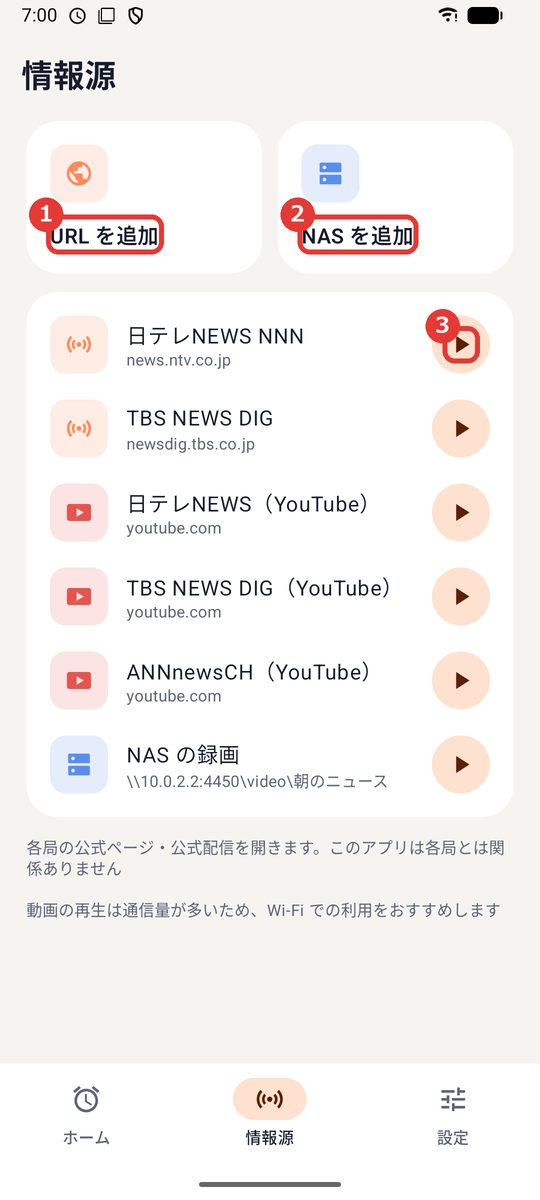
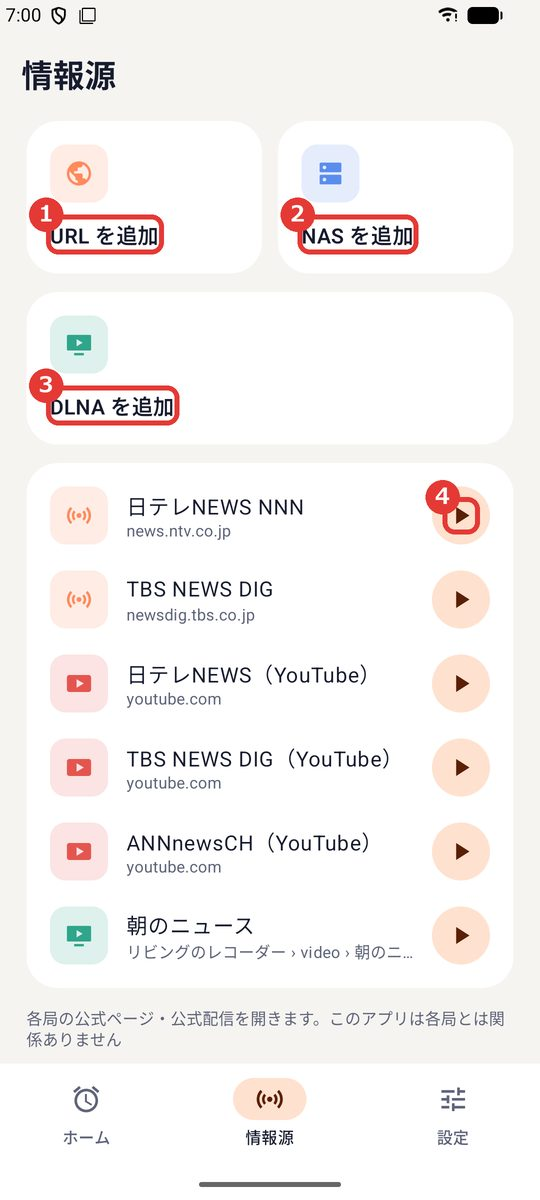
おはようニュースタイマー：DLNA の説明を足す
- 使い方のページに DLNA の手順と画像を追加
- 紹介ページとプライバシーポリシーに DLNA を追加

diff --git a/morning-news/privacy.html b/morning-news/privacy.html
@@ -9,7 +9,7 @@
 <body>
 <p><a href="./">おはようニュースタイマー</a></p>
 <h1>おはようニュースタイマー プライバシーポリシー</h1>
-<p>制定日：2026年11月25日<br>改定日：2026年11月25日（ネットワークの NAS を探す機能を追加）</p>
+<p>制定日：2026年11月25日<br>改定日：2026年11月26日（DLNA サーバーの再生を追加）</p>
 <p>DNGG-studio（以下「運営者」）は、Android アプリ「おはようニュースタイマー」（以下「本アプリ」）での利用者の情報の扱いを、次のとおり定めます。本アプリは、決めた時刻に、利用者が選んだニュースのページ・動画・音声の再生を始めるアプリです。<strong>運営者はサーバーを持たず、利用者の情報を運営者のもとに集めることはありません。</strong></p>
 
 <h2>1. 端末の中に保存する情報</h2>
@@ -18,13 +18,14 @@
 <li>予定（時刻・曜日・情報源と順番・音量・自動で止める時間）と、言語の設定</li>
 <li>利用者が足した情報源の名前と URL</li>
 <li>利用者が足した NAS のフォルダの場所・ユーザー名・パスワード（パスワードは、端末の Android Keystore の鍵で暗号化します）</li>
+<li>利用者が足した DLNA サーバーの名前・識別番号・アドレスと、フォルダの場所</li>
 <li>本アプリの中で開いたページが保存する Cookie などのデータ</li>
 </ul>
 
 <h2>2. 使う権限</h2>
 <table>
 <tr><th>権限</th><th>理由</th></tr>
-<tr><td>インターネット（INTERNET）</td><td>ニュースのページ・動画・音声の再生と、NAS のファイルの読み取りのため</td></tr>
+<tr><td>インターネット（INTERNET）</td><td>ニュースのページ・動画・音声の再生と、NAS・DLNA サーバーのファイルの読み取りのため</td></tr>
 <tr><td>正確なアラーム（USE_EXACT_ALARM、SCHEDULE_EXACT_ALARM）</td><td>決めた時刻ちょうどに再生を始めるため</td></tr>
 <tr><td>全画面の通知（USE_FULL_SCREEN_INTENT）</td><td>画面が消えているとき、時刻に再生の画面を出すため</td></tr>
 <tr><td>ほかのアプリの上に表示（SYSTEM_ALERT_WINDOW）</td><td>ほかのアプリの使用中に、時刻に再生の画面を出すため（任意）</td></tr>
@@ -39,9 +40,10 @@
 <tr><th>送信先</th><th>送る情報</th><th>目的</th></tr>
 <tr><td>利用者が選んだ情報源のサイト（日テレNEWS NNN、TBS NEWS DIG、YouTube、利用者が足した URL など）</td><td>ページや動画を開くための要求。ページの中の Cookie、アクセス解析、広告などは、各サイトとその提携先が扱います</td><td>ニュースなどの再生。各サイトでの扱いは、それぞれのプライバシーポリシーに従います（YouTube は <a href="https://policies.google.com/privacy">Google のプライバシーポリシー</a>）</td></tr>
 <tr><td>利用者が指定した NAS</td><td>ユーザー名・パスワードによる認証と、ファイルを読む要求</td><td>共有フォルダの一覧とフォルダの中の表示、最新のファイルの再生</td></tr>
-<tr><td>同じネットワークの機器</td><td>ファイル共有の機器を探す問い合わせ（mDNS）。NAS を選ぶ画面を開いているあいだだけ</td><td>NAS を一覧に出すため。結果は保存せず、外部に送信しません</td></tr>
+<tr><td>利用者が指定した DLNA サーバー</td><td>フォルダの中を見る要求と、動画・音声を読む要求</td><td>フォルダの中の表示、最新の動画・音声の再生</td></tr>
+<tr><td>同じネットワークの機器</td><td>ファイル共有の機器を探す問い合わせ（mDNS）と、DLNA サーバーを探す問い合わせ（SSDP）。NAS・DLNA サーバーを選ぶ画面を開いているあいだと、保存した DLNA サーバーのアドレスが変わったときだけ</td><td>NAS・DLNA サーバーを見つけるため。結果は保存せず、外部に送信しません</td></tr>
 </table>
-<p>利用者が足した URL が http:// で始まるときは、通信は暗号化されません。</p>
+<p>利用者が足した URL が http:// で始まるときと、DLNA サーバーとのあいだでは、通信は暗号化されません。</p>
 
 <h2>4. 広告</h2>
 <p>本アプリ自体は広告を表示しません。開いたページの中には、そのサイトの広告が表示されることがあります。本アプリに広告を入れる場合は、このポリシーを改定してお知らせします。</p>
@@ -64,7 +66,7 @@
 <hr>
 <div lang="en">
 <h1>Good Morning News Timer Privacy Policy</h1>
-<p>Effective: November 25, 2026<br>Updated: November 25, 2026 (added finding NAS devices on the network)</p>
+<p>Effective: November 25, 2026<br>Updated: November 26, 2026 (added playback from DLNA servers)</p>
 <p>This policy explains how DNGG-studio ("we") handles your information in the Android app "Good Morning News Timer" ("the app"). The app starts playing news pages, video or audio you choose at the time you set. <strong>We run no servers, and we never collect your information.</strong></p>
 
 <h2>1. Information stored on your device</h2>
@@ -73,13 +75,14 @@
 <li>Schedules (time, days, sources and their order, volume, automatic stop) and the language setting</li>
 <li>Names and URLs of sources you add</li>
 <li>Folder location, user name and password of a NAS you add (the password is encrypted with a key in Android Keystore)</li>
+<li>Name, identifier and address of a DLNA server you add, and the folder you choose on it</li>
 <li>Cookies and similar data saved by pages opened in the app</li>
 </ul>
 
 <h2>2. Permissions</h2>
 <table>
 <tr><th>Permission</th><th>Why</th></tr>
-<tr><td>Internet (INTERNET)</td><td>To play news pages, video and audio, and to read files on your NAS</td></tr>
+<tr><td>Internet (INTERNET)</td><td>To play news pages, video and audio, and to read files on your NAS or DLNA server</td></tr>
 <tr><td>Exact alarms (USE_EXACT_ALARM, SCHEDULE_EXACT_ALARM)</td><td>To start playback exactly on time</td></tr>
 <tr><td>Full-screen notifications (USE_FULL_SCREEN_INTENT)</td><td>To show the player on time while the screen is off</td></tr>
 <tr><td>Display over other apps (SYSTEM_ALERT_WINDOW)</td><td>To show the player on time while you use other apps (optional)</td></tr>
@@ -94,9 +97,10 @@
 <tr><th>Recipient</th><th>Data</th><th>Purpose</th></tr>
 <tr><td>Sites of the sources you choose (NTV News NNN, TBS NEWS DIG, YouTube, URLs you add, etc.)</td><td>Requests to open pages and video. Cookies, analytics and ads in the pages are handled by each site and its partners</td><td>Playing news and other content, under each site's privacy policy (for YouTube, the <a href="https://policies.google.com/privacy">Google Privacy Policy</a>)</td></tr>
 <tr><td>The NAS you specify</td><td>Sign-in with the user name and password, and requests to read files</td><td>Listing shared folders and their contents, and playing the newest file</td></tr>
-<tr><td>Devices on your local network</td><td>A query for file-sharing devices (mDNS), only while the NAS picker is open</td><td>To list NAS devices. Results are not stored or sent anywhere</td></tr>
+<tr><td>The DLNA server you specify</td><td>Requests to list folders and to read audio and video</td><td>Listing folders and playing the newest audio or video</td></tr>
+<tr><td>Devices on your local network</td><td>Queries for file-sharing devices (mDNS) and DLNA servers (SSDP), only while a picker is open or when the address of a saved DLNA server has changed</td><td>To find NAS devices and DLNA servers. Results are not stored or sent anywhere</td></tr>
 </table>
-<p>If a URL you add starts with http://, the connection is not encrypted.</p>
+<p>If a URL you add starts with http://, or the source is a DLNA server, the connection is not encrypted.</p>
 
 <h2>4. Ads</h2>
 <p>The app itself shows no ads. Pages opened in the app may contain the site's own ads. If we add ads to the app, we will update this policy.</p>

diff --git a/morning-news/manual.html b/morning-news/manual.html
@@ -4,14 +4,14 @@
 <meta charset="utf-8">
 <meta name="viewport" content="width=device-width,initial-scale=1">
 <title>使い方 - おはようニュースタイマー（Good Morning News Timer）</title>
-<meta name="description" content="おはようニュースタイマーの使い方。予定の作り方、情報源、URL と NAS の追加、自動再生の許可。">
+<meta name="description" content="おはようニュースタイマーの使い方。予定の作り方、情報源、URL・NAS・DLNA の追加、自動再生の許可。">
 <style>body{font-family:sans-serif;max-width:720px;margin:24px auto;padding:0 16px;line-height:1.7;color:#222}h1{font-size:1.4em}h2{font-size:1.15em;margin-top:2.2em;padding-bottom:.2em;border-bottom:1px solid #ddd}h3{font-size:1em;margin-top:1.5em}img{max-width:100%;height:auto}.shot{display:block;max-width:240px;border-radius:8px;margin:12px 0;border:1px solid #ddd}.shots{display:flex;flex-wrap:wrap;gap:12px}.toc{background:#f3f5f9;border-radius:8px;padding:12px 16px 12px 36px}.note{font-size:.9em;color:#555}.tip{background:#eef3fb;border-left:4px solid #3d6bd9;padding:8px 12px;margin:12px 0}ol li,ul li{margin:.2em 0}code{word-break:break-all}</style>
 </head>
 <body>
 <p><a href="./">おはようニュースタイマー の紹介ページへ戻る</a></p>
 <h1>おはようニュースタイマー の使い方</h1>
 <p>おはようニュースタイマー（Good Morning News Timer）は、決めた時刻にニュースの再生を自動で始めるアプリです。</p>
-<p class="note">この説明は バージョン 0.1.0 の画面に合わせています（2026年11月25日、デザインを新しくしました）。画面はこれから変わることがあります。画像の赤い枠と番号は、説明の番号と同じところです。</p>
+<p class="note">この説明は バージョン 0.1.0 の画面に合わせています（2026年11月26日、DLNA に対応しました）。画面はこれから変わることがあります。画像の赤い枠と番号は、説明の番号と同じところです。</p>
 
 <ol class="toc">
 <li><a href="#start">はじめに（許可）</a></li>
@@ -21,6 +21,7 @@
 <li><a href="#sources">情報源</a></li>
 <li><a href="#url">URL を追加する</a></li>
 <li><a href="#nas">NAS を追加する</a></li>
+<li><a href="#dlna">DLNA を追加する</a></li>
 <li><a href="#settings">設定</a></li>
 <li><a href="#faq">よくある質問</a></li>
 </ol>
@@ -43,7 +44,7 @@
 <li>次に再生する曜日と時刻、最初に試す情報源と、それまでの残りの時間です</li>
 <li>予定を押すと編集できます。右のスイッチで ON / OFF を切り替えます</li>
 <li><strong>▶</strong>：その予定の内容を、すぐに試せます</li>
-<li><strong>「情報源」</strong>：再生するページ・URL・NAS を見たり足したりします。下のタブで「ホーム」「情報源」「設定」を切り替えます</li>
+<li><strong>「情報源」</strong>：再生するページ・URL・NAS・DLNA を見たり足したりします。下のタブで「ホーム」「情報源」「設定」を切り替えます</li>
 </ol>
 
 <h2 id="alarm">3. 予定を作る</h2>
@@ -86,6 +87,7 @@
 <ol>
 <li><strong>「URL を追加」</strong>：<a href="#url">6.</a> へ</li>
 <li><strong>「NAS を追加」</strong>：<a href="#nas">7.</a> へ</li>
+<li><strong>「DLNA を追加」</strong>：<a href="#dlna">8.</a> へ</li>
 <li><strong>▶</strong>：その情報源を試します</li>
 </ol>
 <p>自分で足したものは、押すと直したり消したりできます。最初からあるものは直せません。</p>
@@ -134,14 +136,44 @@
 <li>テレビの録画（MPEG-2 TS など）は、端末によって再生できないことがあります</li>
 </ul>
 
-<h2 id="settings">8. 設定</h2>
+<h2 id="dlna">8. DLNA を追加する</h2>
+<p>レコーダー・NAS・PC などの DLNA サーバーのフォルダを選ぶと、その中のいちばん新しい動画・音声を再生します。「情報源」の「DLNA を追加」を押します。</p>
+<img class="shot" src="images/manual/dlna.jpg" width="540" height="1200" loading="lazy" alt="DLNA を追加する画面">
+<ol>
+<li><strong>「フォルダをたどって選ぶ」</strong>：サーバーの中を見ながらフォルダを選びます（下の手順）</li>
+<li><strong>「サブフォルダの中も探す」</strong>：ON なら、中のフォルダも 4 段まで探します</li>
+<li><strong>「接続を確かめる」</strong>：つながると、再生する最新のものの名前が出ます</li>
+<li><strong>「保存」</strong>を押します</li>
+</ol>
+<h3>サーバーを選ぶ</h3>
+<img class="shot" src="images/manual/dlna-servers.jpg" width="540" height="1200" loading="lazy" alt="DLNA サーバーを選ぶ画面">
+<ol>
+<li>同じネットワークのサーバーが見つかると、下に並びます。使うものを押します</li>
+<li>見つからないときは、サーバーのアドレス（例：<code>192.168.1.10</code>）を入れます。機器の説明の URL（<code>http://</code> で始まるもの）でもかまいません</li>
+<li><strong>「開く」</strong>を押します</li>
+</ol>
+<h3>フォルダを選ぶ</h3>
+<img class="shot" src="images/manual/dlna-folder.jpg" width="540" height="1200" loading="lazy" alt="DLNA サーバーのフォルダの中">
+<ol>
+<li><strong>「このフォルダを使う」</strong>：いまのフォルダに決めます</li>
+<li>中の新しいものの名前が 5 件まで出ます。保護された録画には「再生できません」と出ます</li>
+<li><strong>上向きの矢印</strong>：1 つ上のフォルダに戻ります</li>
+</ol>
+<ul>
+<li>レコーダーで録画した地上波・BS などの、著作権保護（DTCP-IP）された録画は再生できません。最新のものを選ぶときも飛ばします</li>
+<li>「最新」は、サーバーが知らせる日付で決めます。日付がなければ名前の中の日付（<code>2026-11-26</code>、<code>20261126_0700</code> など）、それもなければ並びの最後のものを選びます</li>
+<li>予定の時刻に、サーバーの電源が入っていて、同じネットワークにつながっている必要があります。サーバーのアドレスが変わっても、同じ機器を探し直します</li>
+<li>動画の形式（MPEG-2 など）によっては、端末で再生できないことがあります</li>
+</ul>
+
+<h2 id="settings">9. 設定</h2>
 <img class="shot" src="images/manual/settings.jpg" width="540" height="1200" loading="lazy" alt="設定の画面">
 <ol>
 <li><strong>「言語」</strong>：12 言語から選べます。「自動」なら端末の言語です</li>
 <li><strong>「プライバシーポリシー」</strong>：このサイトのページを開きます</li>
 </ol>
 
-<h2 id="faq">9. よくある質問</h2>
+<h2 id="faq">10. よくある質問</h2>
 <h3>時刻になっても始まりません</h3>
 <p>ホームの画面に許可の案内が出ていないか、予定のスイッチが ON かを確かめてください。端末の設定でアプリを「強制停止」すると、次にアプリを開くまで再生は始まりません。端末の電源が切れているときも始まりません。</p>
 <h3>音が出ません</h3>

diff --git a/morning-news/index.html b/morning-news/index.html
@@ -4,7 +4,7 @@
 <meta charset="utf-8">
 <meta name="viewport" content="width=device-width,initial-scale=1">
 <title>おはようニュースタイマー</title>
-<meta name="description" content="決めた時刻に、ニュースの再生を自動で始める Android アプリ。URL の追加や NAS の動画にも対応。">
+<meta name="description" content="決めた時刻に、ニュースの再生を自動で始める Android アプリ。URL の追加や NAS・DLNA の動画にも対応。">
 <style>body{font-family:sans-serif;max-width:720px;margin:24px auto;padding:0 16px;line-height:1.7;color:#222}h1{font-size:1.4em}h2{font-size:1.1em;margin-top:2em}img{max-width:100%;height:auto}.shots{display:grid;grid-template-columns:repeat(auto-fill,minmax(150px,1fr));gap:12px;margin:1em 0}.shots img{display:block;border-radius:8px}.note{font-size:.9em;color:#555}</style>
 </head>
 <body>
@@ -26,6 +26,7 @@
 <li><strong>情報源：</strong>各局の公式ページや公式 YouTube を、試す順に並べられます。再生できないときは次の情報源に進み、どれもだめならアラームを鳴らします</li>
 <li><strong>URL の追加：</strong>ニュースのページ、YouTube、動画・音声（m3u8・mp4・mp3 など）の URL を登録できます</li>
 <li><strong>NAS：</strong>フォルダをたどって選ぶと、その中のいちばん新しい動画・音声を再生します（SMB 2 / 3）</li>
+<li><strong>DLNA：</strong>同じネットワークの DLNA サーバーのフォルダを選ぶと、その中のいちばん新しい動画・音声を再生します（著作権保護された録画は再生できません）</li>
 <li><strong>音量と自動停止：</strong>予定ごとに音量を決められ、終わると元の音量に戻します。決めた時間で自動で止められます</li>
 <li>縦・横の画面、12 言語に対応</li>
 </ul>
@@ -56,6 +57,7 @@
 <li><strong>Sources:</strong> put official news pages and YouTube channels in the order to try. If one can't play, the next is used, and if none can, an alarm sounds</li>
 <li><strong>Add URLs:</strong> news pages, YouTube, or audio/video (m3u8, mp4, mp3…)</li>
 <li><strong>NAS:</strong> browse to a folder, and the app plays its newest audio or video file (SMB 2 / 3)</li>
+<li><strong>DLNA:</strong> choose a folder on a DLNA server on your network, and the app plays its newest audio or video (copy-protected recordings can't be played)</li>
 <li><strong>Volume and automatic stop:</strong> set for each schedule. The volume is restored afterward</li>
 <li>Portrait and landscape, 12 languages</li>
 </ul>
